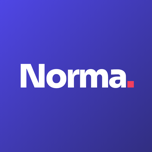
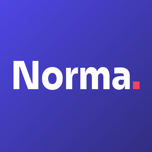
Icona dell'app più grande e leggibile; versione maskable separata per Android

Changed region(s): [[0.0789, 0.3947, 0.9211, 0.6053]]

diff --git a/public/sw.js b/public/sw.js
@@ -6,7 +6,7 @@ importScripts('https://cdn.onesignal.com/sdks/web/v16/OneSignalSDK.sw.js');
 
 // Cambiare ad ogni deploy che deve raggiungere le PWA già installate: è la
 // differenza nel contenuto di questo file che fa scattare l'aggiornamento.
-const CACHE_NAME = 'norma-2026-11-13-restyling';
+const CACHE_NAME = 'norma-2026-11-13-icona';
 
 // Asset statici sempre in cache
 const STATIC_ASSETS = [
